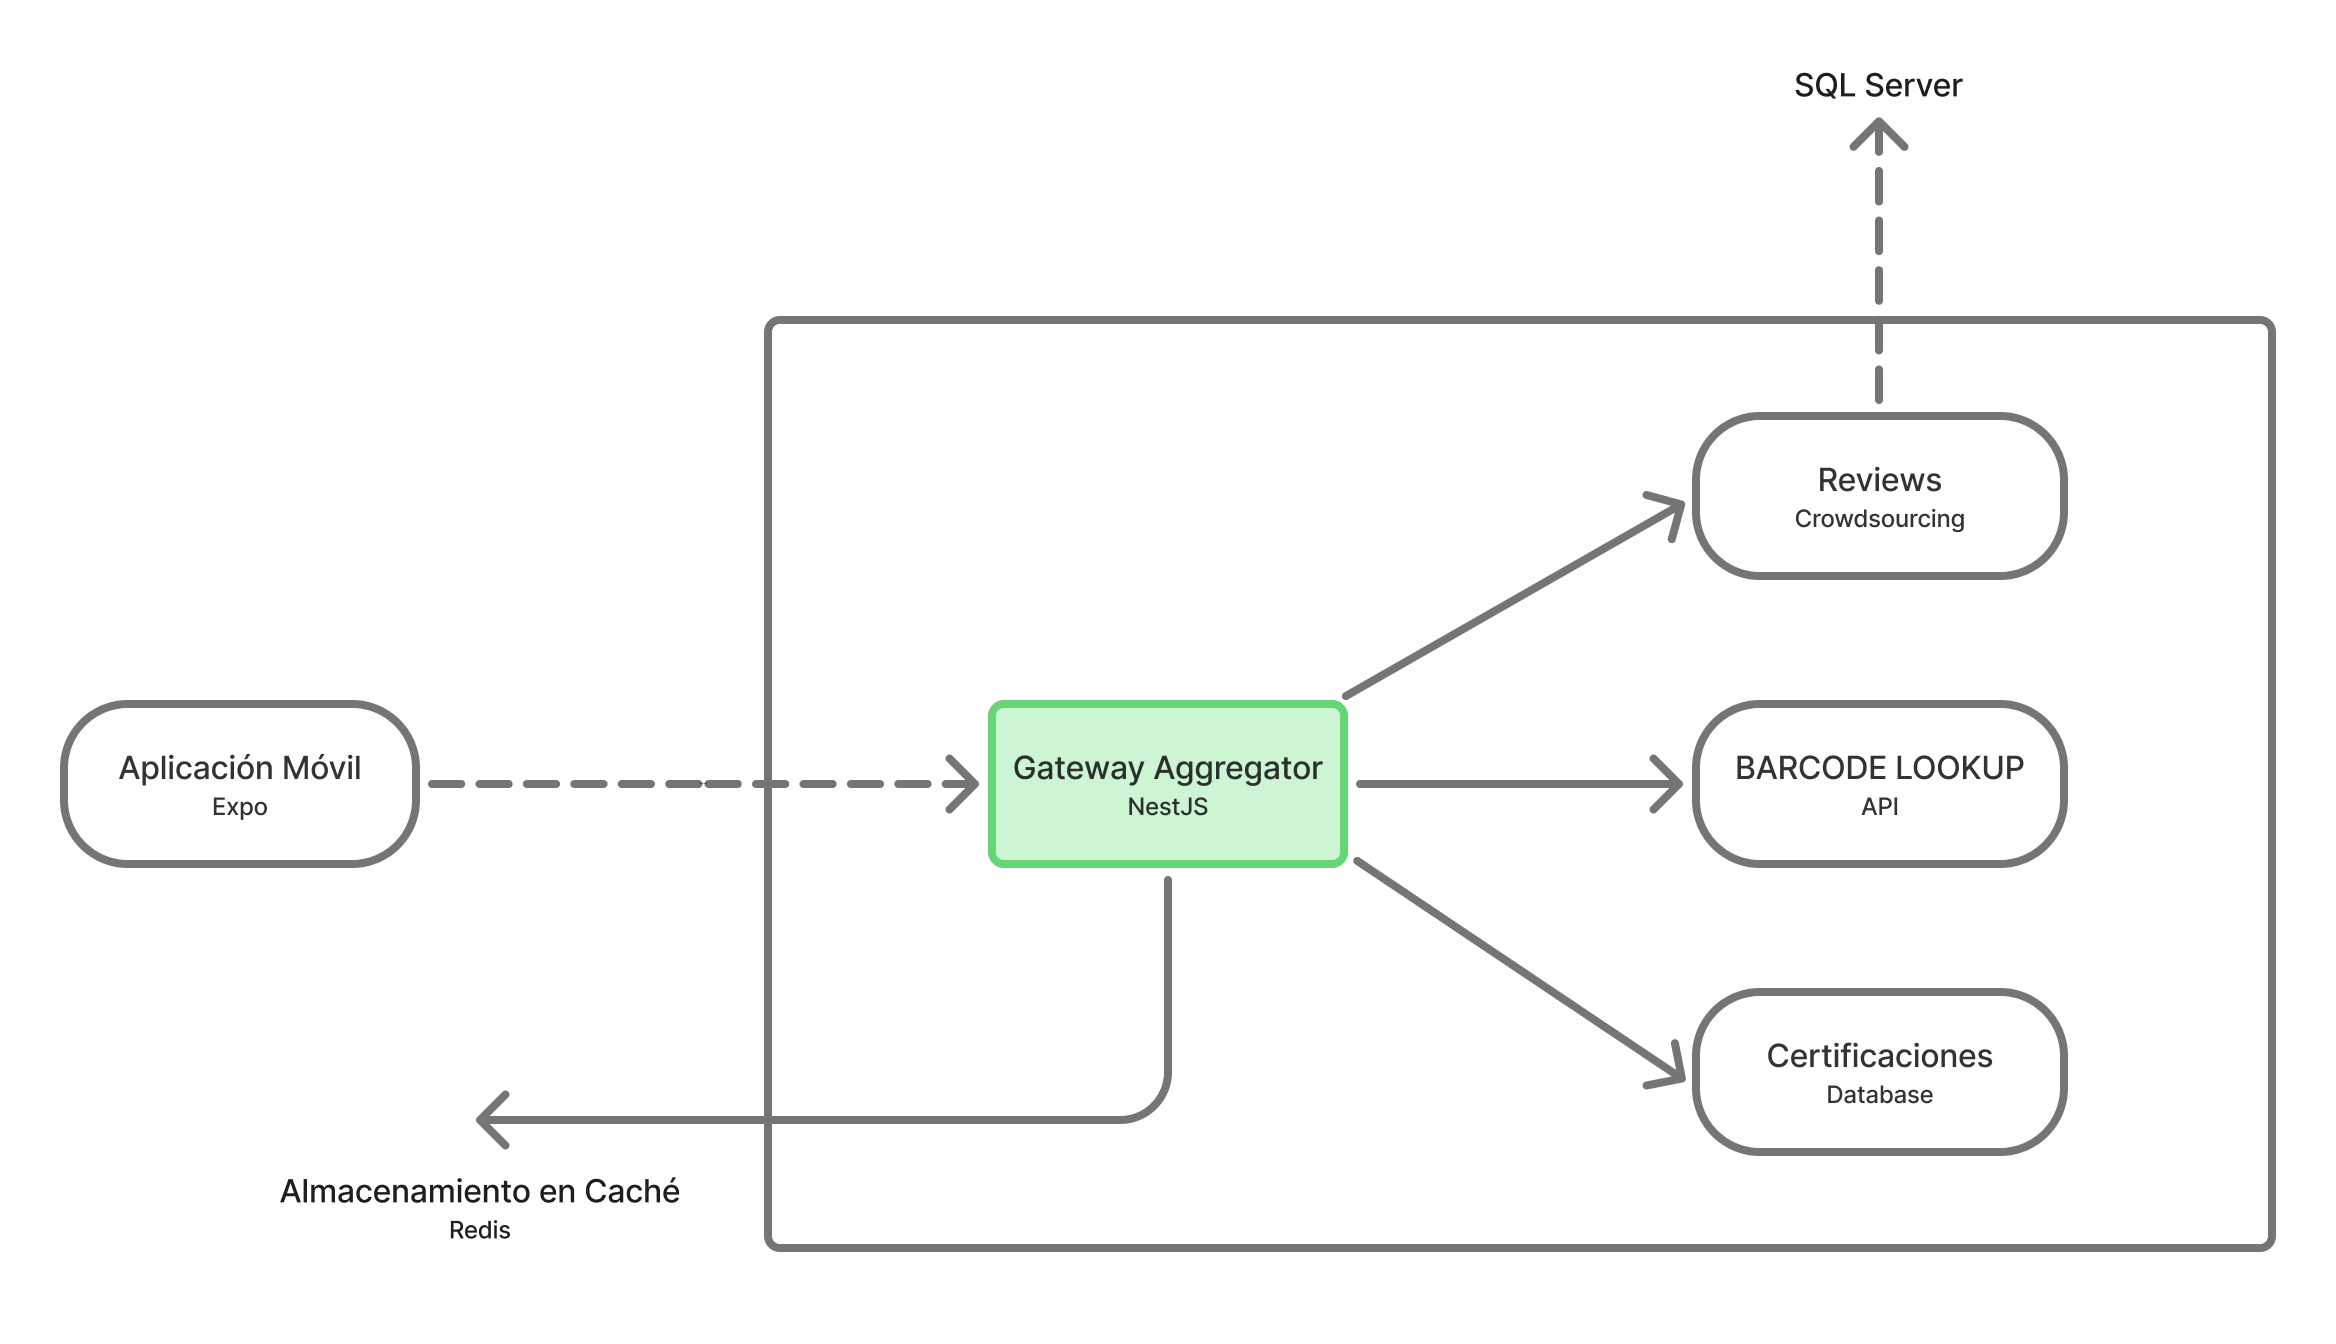
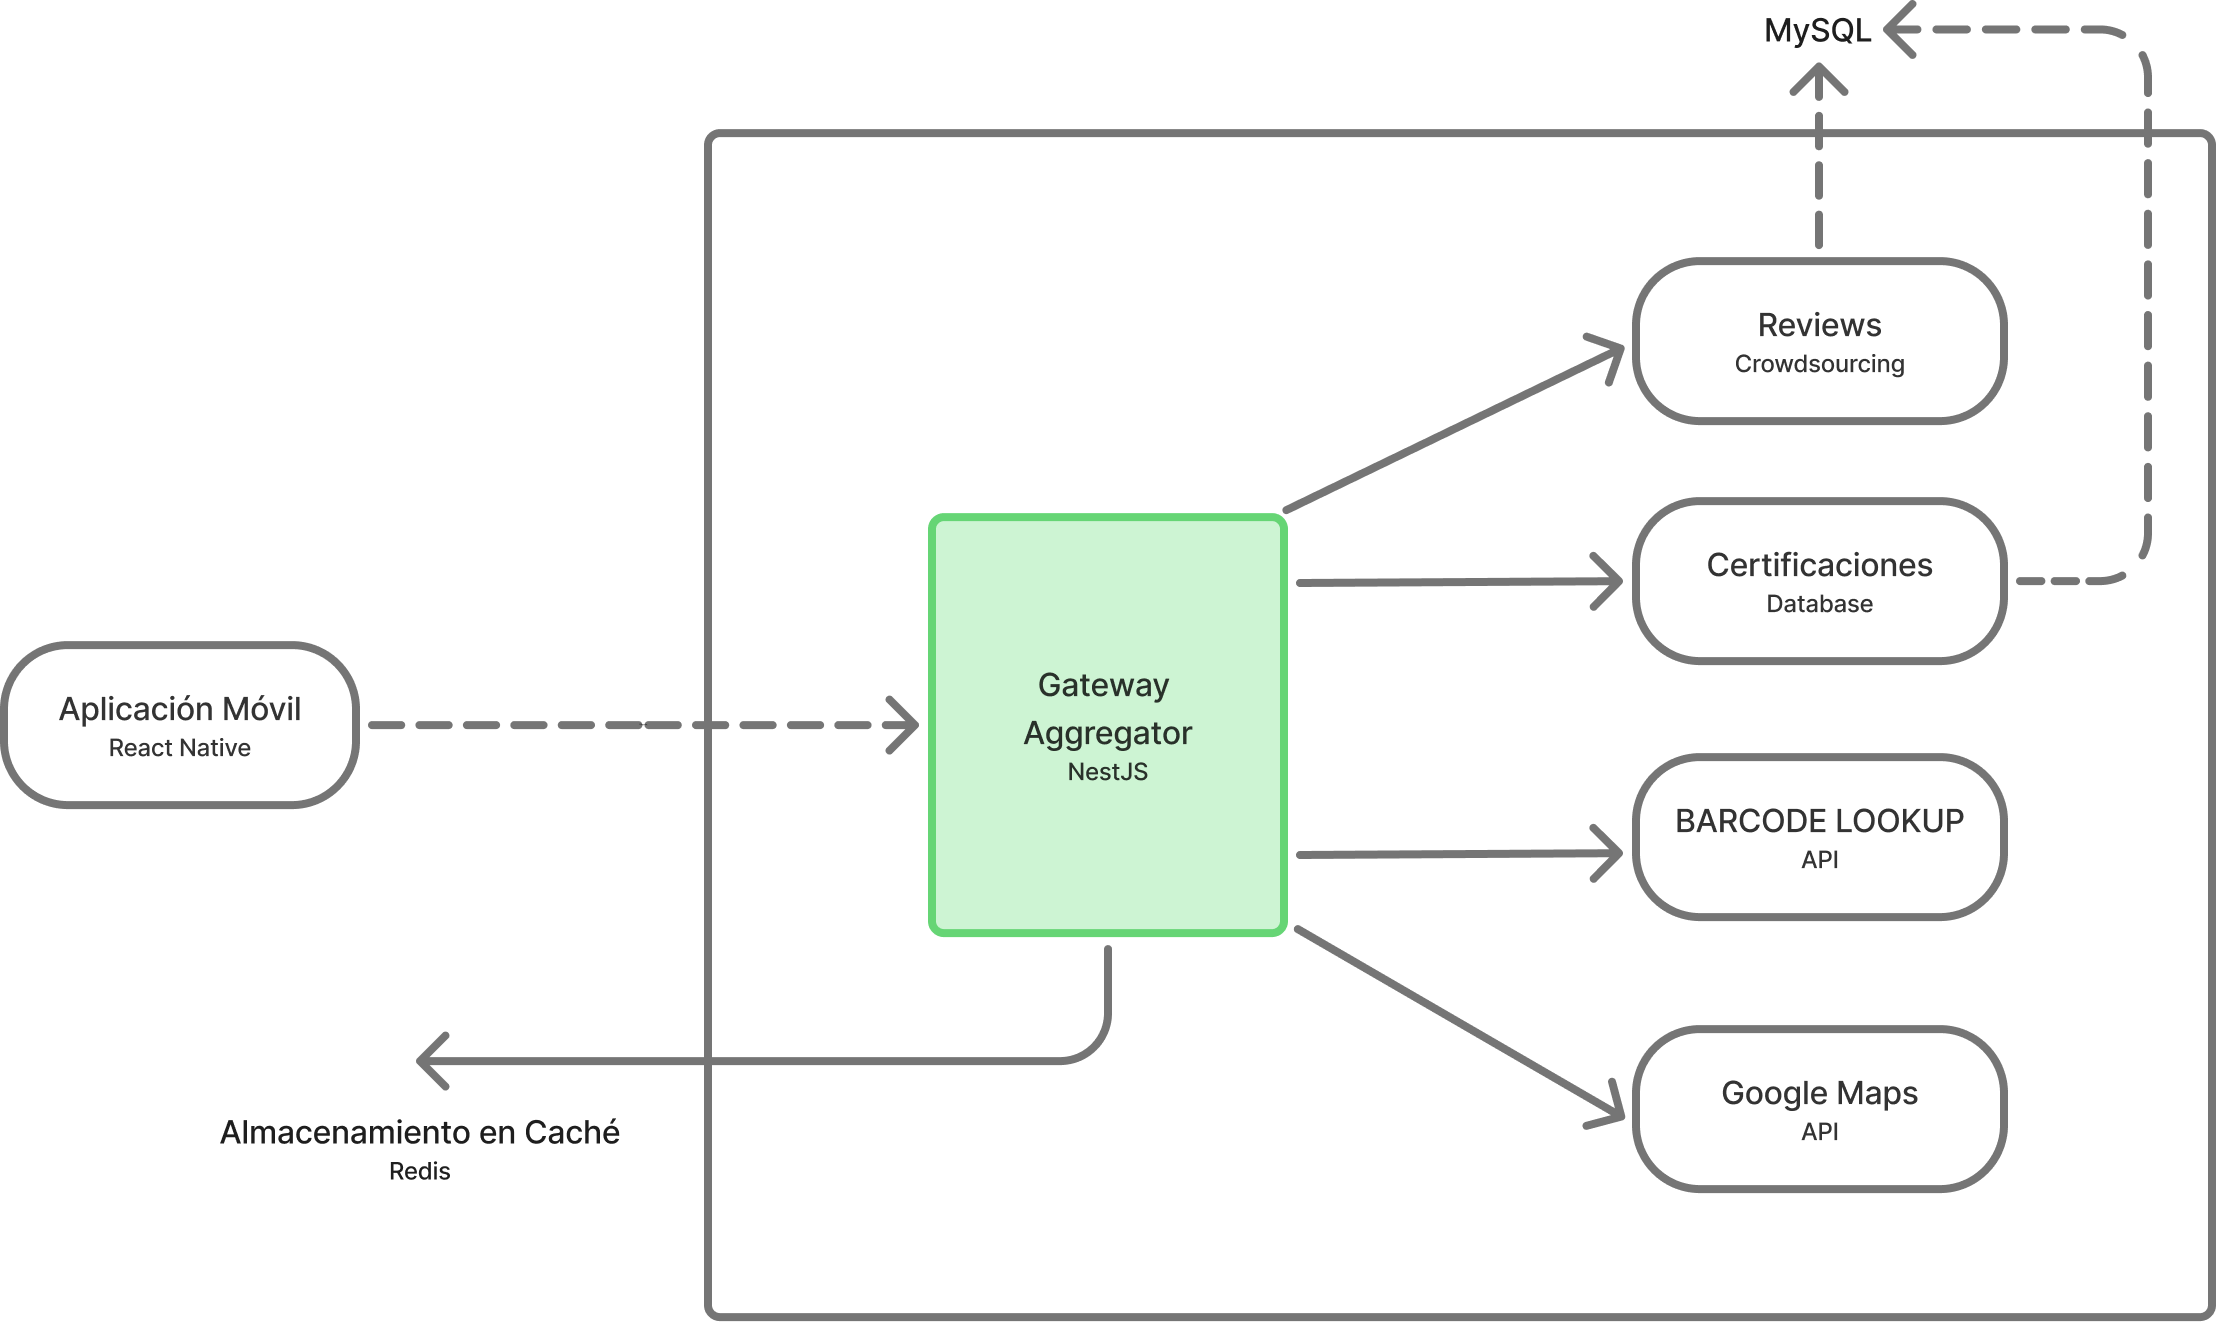
mod relacional + format

diff --git a/diseño/cu-03.tex b/diseño/cu-03.tex
@@ -4,7 +4,10 @@ consultar sitios de reparación cercanos a su ubicación actual, asociados
 al tipo de producto escaneado, con el objetivo de fomentar la cultura 
 de reparación y la sustentabilidad.
 
-\begin{longtable}{p{3.5cm} p{10cm} p{1cm}}\toprule \textbf{Caso de Uso} &
+
+\begin{table}[ht]
+\centering
+\begin{tabular}{p{3.5cm} p{10cm} p{1cm}}\toprule \textbf{Caso de Uso} &
 \textit{Visitar Sitios Cercanos de Reparación} & \textit{03} \\
 
 \midrule
@@ -28,45 +31,47 @@ posición actual del dispositivo, consulta una API externa y muestra un listado
 con nombre, dirección, distancia, teléfono, horario y calificación de cada
 establecimiento. El usuario puede seleccionar uno y obtener la ruta directamente
 desde la aplicación.} \\[6pt]
+\bottomrule
+\end{tabular}
+\end{table}
 
+\begin{table}[h]
+\centering
+\begin{tabular}{p{15.5cm}}\toprule \textbf{Descripción} \\
 \midrule
-\multicolumn{3}{l}{\textbf{Curso Normal}} \\*[2pt]
-\multicolumn{3}{p{14.5cm}}{
-  \begin{enumerate}[topsep=0pt, partopsep=0pt, leftmargin=30pt]
-    \item El usuario escanea el producto y accede a su información.
-    \item El usuario selecciona la opción \textit{Ver sitios de reparación
-    cercanos}.
-    \item El sistema obtiene la ubicación actual del dispositivo del usuario.
-    \item El sistema consulta la API de sitios de reparación con la ubicación y
-    la categoría del producto escaneado.
-    \item El sistema muestra un listado de sitios de reparación con la siguiente
-    información por cada uno:
-     \begin{enumerate}[topsep=0pt, partopsep=0pt, leftmargin=30pt]
+\textbf{Flujo Principal} \\[2pt]
+\begin{enumerate}
+  \item El usuario escanea el producto y accede a su información.
+  \item El usuario selecciona la opción \textit{Ver sitios de reparación
+      cercanos}.
+  \item El sistema obtiene la ubicación actual del dispositivo del usuario.
+  \item El sistema consulta la API de sitios de reparación con la ubicación y
+      la categoría del producto escaneado.
+  \item El sistema muestra un listado de sitios de reparación con la siguiente
+      información por cada uno:
+    \begin{enumerate}
         \item \textbf{Nombre} del establecimiento.
         \item \textbf{Dirección} y distancia aproximada al usuario.
         \item \textbf{Teléfono} de contacto.
         \item \textbf{Horario} de atención.
         \item \textbf{Calificación} promedio del establecimiento.
-      \end{enumerate}
-    \item El usuario selecciona un sitio de reparación de la lista.
-    \item El sistema abre el mapa del dispositivo con la ruta hacia el sitio
-    seleccionado.
-  \end{enumerate}
-}
-
+    \end{enumerate}
+  \item El usuario selecciona un sitio de reparación de la lista.
+  \item El sistema abre el mapa del dispositivo con la ruta hacia el sitio
+      seleccionado.
+\end{enumerate} \\
 \midrule
-\multicolumn{3}{l}{\textbf{Cursos Alternos}} \\[2pt]
-\multicolumn{3}{p{14.5cm}}{
-  \begin{enumerate}[topsep=0pt, partopsep=0pt, leftmargin=30pt]
-    \item[3a.] Si el usuario no ha habilitado el permiso de ubicación, el
+\textbf{Flujo Alterno} \\[2pt]
+\begin{enumerate}
+\item[3a.] Si el usuario no ha habilitado el permiso de ubicación, el
     sistema muestra un mensaje solicitando activarlo y redirige a la
     configuración del dispositivo.
-    \item[4a.] Si no se encuentran sitios de reparación cercanos, el sistema
+\item[4a.] Si no se encuentran sitios de reparación cercanos, el sistema
     muestra un mensaje informativo.
-    \item[4b.] Si no hay conexión a internet, el sistema muestra un mensaje de
+\item[4b.] Si no hay conexión a internet, el sistema muestra un mensaje de
     error indicando que se requiere conexión para realizar la búsqueda.
-  \end{enumerate}
-}
-
+\end{enumerate}
+\\
 \bottomrule
-\end{longtable}
+\end{tabular}
+\end{table}

diff --git a/diseño/cu-01.tex b/diseño/cu-01.tex
@@ -3,7 +3,7 @@ Este caso de uso describe el proceso mediante el cual el usuario podrá
 el código de barras de un producto utilizando la cámara de su dispositivo móvil.
 El sistema retornará información relevante acerca del prodcuto. \\
 
-\begin{table}[h]
+\begin{table}[ht]
 \centering
 \begin{tabular}{p{3.5cm} p{10cm} p{1cm}}\toprule \textbf{Caso de Uso} &
 \textit{Escaneo de Producto} & \textit{01} \\
@@ -28,12 +28,39 @@ de reparación cercanas al usuario.} \\[6pt]
 \end{tabular}
 \end{table}
 
-\subsubsection{Curso Normal}
-  \begin{enumerate}
-    \item El usuario abre la aplicación y selecciona la opción de escaneo.
-    \item El sistema activa la cámara del dispositivo.
-    \item El usuario apunta la cámara al código de barras del producto.
-    \item El sistema detecta y decodifica el código EAN/UPC.\@
-    \item El sistema consulta las APIs externas con el código obtenido.
-    \item El sistema muestra la información técnica, reseñas y certificaciones.
-  \end{enumerate}
+\begin{table}[ht]
+\centering
+\begin{tabular}{p{15.5cm}}
+\toprule
+\textbf{Descripción} \\
+\midrule
+\textbf{Flujo Principal} \\[2pt]
+\begin{enumerate}[topsep=0pt, partopsep=0pt, leftmargin=30pt]
+\item El usuario abre la aplicación y selecciona la opción de escaneo.
+\item El sistema activa la cámara del dispositivo.
+\item El usuario apunta la cámara al código de barras del producto.
+\item El sistema detecta y decodifica el código EAN/UPC\@.
+\item El sistema consulta las APIs externas con el código obtenido.
+\item El sistema muestra la información técnica, reseñas y certificaciones.
+\end{enumerate} \\
+\midrule
+\textbf{Flujos Alternativos} \\[2pt]
+\begin{enumerate}[topsep=0pt, partopsep=0pt, leftmargin=30pt]
+\item[2a.] El dispositivo no tiene cámara disponible o está siendo usada
+    por otra aplicación; el sistema muestra un mensaje de error.
+\item[2b.] El usuario deniega el permiso de cámara; el sistema solicita
+    que lo habilite en la configuración del dispositivo.
+\item[4b.] El sistema no detecta ningun código; el sistema solicita 
+    verificar el código que se deasea ingresar.
+\item[4c.] El código no corresponde a un formato EAN/UPC válido; el
+    sistema informa que el código no es reconocido.
+\item[5a.] No hay conexión a internet; el sistema muestra un mensaje de
+    error indicando que se requiere conexión.
+\item[5c.] El código no se encuentra en ninguna base de datos; el sistema
+    notifica que el producto no fue encontrado.
+\item[6a.] La información del producto está incompleta; el sistema muestra
+    solo los datos disponibles.
+\end{enumerate} \\
+\bottomrule
+\end{tabular}
+\end{table}

diff --git a/diseño/arquitectura.tex b/diseño/arquitectura.tex
@@ -5,7 +5,7 @@ móvil objetivo del proyecto. Se mostrará lo siguiente: tipo de arquitectura, p
 arquitectónicos, tecnologías  seleccionadas, así como los criterios que guiaron 
 cada decisión de diseño.
 
-\subsection{Diseño}
+\subsection{Sistema}
 
 El sistema adoptará una \textbf{arquitectura cliente-servidor} con un backend
 monolítico modular, implementando el patrón de diseño \textit{gateway
@@ -57,11 +57,22 @@ el mostrado en la Figura~\ref{fig:diagrama-sistema}:
 \begin{center}
 \begin{tabular}{l p{5cm} p{6cm}}
 \toprule
-\textbf{Atributo} & \textbf{Detalle} & \textbf{Descripci\'on} \\
+\textbf{Atributo} & \textbf{Detalle} & \textbf{Descripción} \\
 \midrule
-Framework       & Expo                   & Texto \\[6pt]
-Patrón          & Model-View-ViewModel   & Texto \\[6pt]
-Almacenamiento  & SQL Server             & Texto \\[6pt]
+Framework       & Expo                  & Permite compilar la aplicación para
+                                          Android e iOS desde una única base de
+                                          código. \\[6pt]
+Patrón          & Model-View-ViewModel  & Separa la lógica de presentación de la
+                                          interfaz de usuario mediante un
+                                          \textit{ViewModel} que expone el
+                                          estado y los comandos a la vista,
+                                          facilitando las pruebas y el
+                                          mantenimiento del código. \\[6pt]
+Almacenamiento  & MySQL                 & Sistema gestor de base de datos
+                                          relacional utilizado para persistir la
+                                          información de reseñas y
+                                          certificaciones consultadas a través
+                                          del gateway. \\[6pt]
 \bottomrule
 \end{tabular}
 \end{center}

diff --git a/diseño/cu-02.tex b/diseño/cu-02.tex
@@ -3,7 +3,9 @@
 Este caso de uso describe el proceso mediante un usuario podrá 
 dejar una reseña sobre un producto previamente escaneado. \\
 
-\begin{longtable}{p{3.5cm} p{10cm} p{1cm}}\toprule \textbf{Caso de Uso} &
+\begin{table}[h]
+\centering
+\begin{tabular}{p{3.5cm} p{10cm} p{1cm}}\toprule \textbf{Caso de Uso} &
 \textit{Dejar Reseñas} & \textit{02} \\
 \midrule
 \textbf{Actores}       & Usuario (anónimo)   \\[6pt]
@@ -25,9 +27,14 @@ aspectos de uso, frecuencia, durabilidad, reparabilidad, sustentabilidad y
 desempeño. El sistema almacena las respuestas y las asocia al producto para
 enriquecer la información disponible para futuros usuarios.} \\[6pt]
 \bottomrule
-\end{longtable}
+\end{tabular}
+\end{table}
 
-\subsubsection{Curso Normal}
+\begin{table}[h]
+\centering
+\begin{tabular}{p{15.5cm}}\toprule \textbf{Descripción} \\
+\midrule
+\textbf{Flujo Principal} \\[2pt]
   \begin{enumerate}
     \item El usuario escanea el producto y accede a su información.
     \item El usuario selecciona la opción \textit{Dejar reseña}.
@@ -53,12 +60,17 @@ enriquecer la información disponible para futuros usuarios.} \\[6pt]
     \item El sistema almacena la reseña vinculada al código de barras del
     producto.
     \item El sistema muestra un mensaje de confirmación al usuario.
-  \end{enumerate}
-
-\subsubsection{Cursos Alternos}
+  \end{enumerate}\\
+\midrule
+\textbf{Flujo Alterno} \\[2pt]
   \begin{enumerate}
     \item[5a.] Si el usuario no completa las secciones obligatorias, el sistema
     resalta los campos faltantes y solicita completarlos antes de continuar.
     \item[4a.] El usuario puede cancelar el cuestionario en cualquier momento
     sin que se guarde ningún dato.
   \end{enumerate}
+
+\\
+\bottomrule
+\end{tabular}
+\end{table}

diff --git a/diseño/base-de-datos.tex b/diseño/base-de-datos.tex
@@ -1,0 +1,13 @@
+\section{Base de Datos}
+
+\begin{figure}[ht]
+    \centering
+    \fbox{\includegraphics[width=0.3\textwidth]{imagenes/certificaciones.png}}
+    \caption{Certificaciones de Empresas}\label{fig:certificaciones}
+\end{figure}
+
+\begin{figure}[ht]
+    \centering
+    \fbox{\includegraphics[width=0.5\textwidth]{imagenes/reseñas.png}}
+    \caption{Certificaciones de Empresas}\label{fig:reseñas}
+\end{figure}

diff --git a/main.tex b/main.tex
@@ -77,13 +77,16 @@
 \input{secciones/bosquejo_metodo}
 \newpage
 
-% \input{diseño/arquitectura}
-% \newpage
+\input{diseño/arquitectura}
+\newpage
 
 \input{diseño/casos-de-uso}
 \newpage
 
 % \input{diseño/requisitos}
+% \newpage
+
+% \input{diseño/base-de-datos}
 % \newpage
 
 \setlength{\bibitemsep}{1em}
